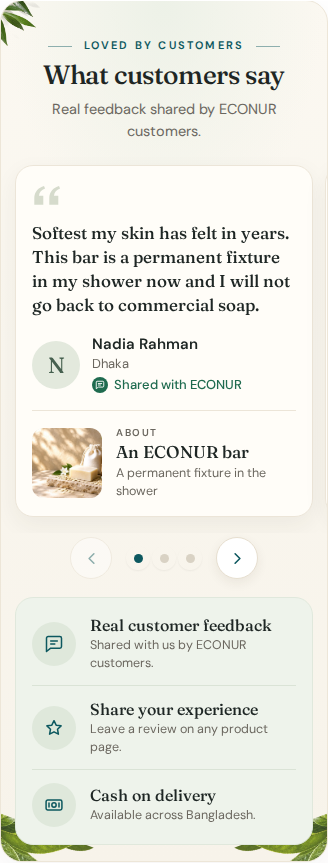
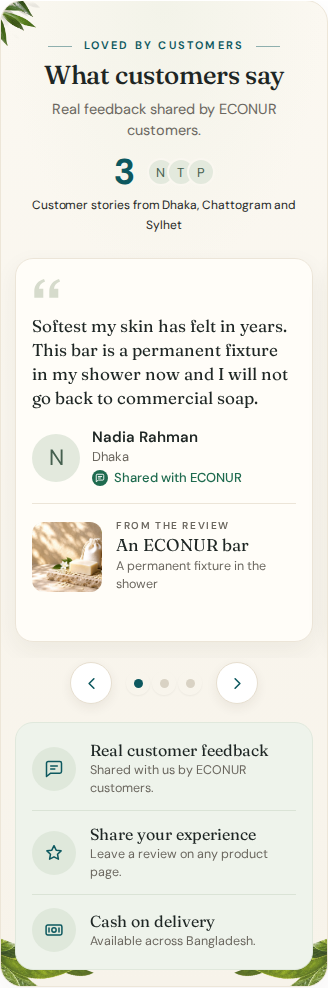
ECONUR Reviews plugin 1.2.0: match the approved reference layout
1140px block like the sections above, reference-scaled type and spacing, one card structure for every card
(same lower block, reserved date row), truthful summary block in fallback mode, regular-weight serif
self-hosted for this section only, one card per view on phones, arrows that wrap, aligned rows across cards.

Claude-Session: https://claude.ai/code/session_019SexMS1QwDBvZu3PuFEdLs

diff --git a/site-assets/econur/reviews-plugin/econur-reviews/assets/econur-reviews.css b/site-assets/econur/reviews-plugin/econur-reviews/assets/econur-reviews.css
@@ -1,7 +1,7 @@
 /* ECONUR Reviews plugin: "What customers say" section ([econur_reviews]). Scoped to .enr-rv. */
 .enr-rv{ --rv-teal:#0D585F; --rv-green:#1F6B4F; --rv-ink:#1E2624; --rv-muted:#6B675F; --rv-line:#ECE5D8; --rv-card:#FFFDF8; --rv-gold:#C9A24A; --rv-sage:#E3E9DD;
   position:relative; isolation:isolate; overflow:hidden; margin:0 16px; padding:40px 18px 20px; border:1px solid #EDE6D8; border-radius:22px;
-  background:radial-gradient(70% 40% at 50% 0%, rgba(232,239,228,.75), rgba(232,239,228,0) 70%), linear-gradient(180deg, #FBF8F1 0%, #F7F3EA 100%); box-shadow:0 12px 34px rgba(52,44,30,.05); }
+  background:radial-gradient(70% 40% at 50% 0%, rgba(236,239,226,.55), rgba(236,239,226,0) 70%), linear-gradient(180deg, #FBF8F1 0%, #F7F3EA 100%); box-shadow:0 12px 34px rgba(52,44,30,.05); }
 .enr-rv > *{ position:relative; z-index:1; }
 /* botanical corners: decorative, behind the content */
 .enr-rv > .enr-rv-deco{ position:absolute; z-index:0; display:block; height:auto !important; max-width:none !important; margin:0 !important; border-radius:0 !important; box-shadow:none !important; pointer-events:none; user-select:none; }
@@ -143,7 +143,7 @@
   .enr-rv-buy{ gap:16px; margin-top:18px; padding-top:18px; }
   .enr-rv-buy-img{ width:100px; height:100px; }
   .enr-rv .enr-rv-buy-name{ font-size:19px; }
-  .enr-rv-buy-line{ font-size:13.5px; }
+  .enr-rv-buy-line{ font-size:14px; }
   .enr-rv-nav{ margin-top:8px; gap:18px; }
   .enr-rv .enr-rv-arrow{ width:46px; height:46px; }
   .enr-rv .enr-rv-trust{ margin-top:26px !important; padding:20px 8px !important; border-radius:20px; }
@@ -151,7 +151,7 @@
   .enr-rv-trust-ico{ width:56px; height:56px; }
   .enr-rv-trust-ico svg{ width:24px; height:24px; }
   .enr-rv-trust-copy b{ font-size:18px; }
-  .enr-rv-trust-copy span{ font-size:13.5px; }
+  .enr-rv-trust-copy span{ font-size:13px; }
 }
 /* tablets and small laptops: smaller corner botanicals so they stay clear of the subtitle */
 @media (min-width:700px) and (max-width:1199px){
@@ -167,50 +167,8 @@
   .enr-rv-nav{ margin-top:16px; }
   .enr-rv .enr-rv-trust{ margin-top:32px !important; }
 }
-@media (min-width:1200px){
-  .enr-rv{ --rv-w:min(1320px, calc(100vw - 64px)); width:var(--rv-w); max-width:none; margin-left:calc(50% - var(--rv-w) / 2); margin-right:0; padding:52px 34px 36px; }
-  .enr-rv .enr-rv-title{ font-size:56px !important; }
-  .enr-rv-eyebrow{ font-size:13.5px; letter-spacing:.22em; }
-  .enr-rv-sub{ font-size:18px; }
-  .enr-rv-track{ gap:18px; margin:-8px -8px 0 !important; padding:8px 8px 20px !important; }
-  .enr-rv-slide{ flex-basis:calc((100% - 36px) / 3); }
-}
-@media (min-width:1360px){
-  .enr-rv .enr-rv-title{ font-size:60px !important; }
-  .enr-rv-deco--tl{ top:-44px; left:-56px; width:370px; }
-  .enr-rv-deco--tr{ top:-46px; right:-44px; width:370px; }
-  .enr-rv-deco--bl, .enr-rv-deco--br{ width:200px; bottom:-36px; }
-}
-/* wide screens: scale type and inner elements with the wider block so proportions match the reference */
-@media (min-width:1360px){
-  .enr-rv .enr-rv-title{ font-size:66px !important; }
-  .enr-rv-eyebrow{ font-size:14.5px; margin-bottom:12px; }
-  .enr-rv-sub{ margin-top:16px; font-size:19.5px; }
-  .enr-rv-summary{ margin-top:26px; }
-  .enr-rv-carousel{ margin-top:34px; }
-  .enr-rv-card{ padding:30px 30px 26px; }
-  .enr-rv-quote{ width:44px; height:33px; }
-  .enr-rv-stars svg{ width:22px; height:22px; }
-  .enr-rv .enr-rv-text p{ font-size:22px; line-height:1.4; }
-  .enr-rv-avatar{ width:62px; height:62px; font-size:28px; }
-  .enr-rv-name{ font-size:17px; }
-  .enr-rv-city, .enr-rv-verified{ font-size:14.5px; }
-  .enr-rv-buy{ min-height:130px; gap:18px; }
-  .enr-rv-buy-img{ width:110px; height:110px; }
-  .enr-rv-buy-eyebrow{ font-size:11px; }
-  .enr-rv .enr-rv-buy-name{ font-size:21px; }
-  .enr-rv-buy-line{ font-size:14.5px; }
-  .enr-rv .enr-rv-arrow{ width:50px; height:50px; }
-  .enr-rv-arrow svg{ width:21px; height:21px; }
-  .enr-rv .enr-rv-dot::before{ width:10px; height:10px; }
-  .enr-rv .enr-rv-trust{ padding:24px 10px !important; }
-  .enr-rv-trust-ico{ width:62px; height:62px; }
-  .enr-rv-trust-ico svg{ width:26px; height:26px; }
-  .enr-rv-trust-copy b{ font-size:20px; }
-  .enr-rv-trust-copy span{ font-size:14.5px; }
-}
 /* plugin additions */
-.enr-rv .enr-rv-text p{ display:-webkit-box; -webkit-box-orient:vertical; -webkit-line-clamp:5; line-clamp:5; overflow:hidden; }
+.enr-rv .enr-rv-text p{ display:-webkit-box; -webkit-box-orient:vertical; -webkit-line-clamp:7; line-clamp:7; overflow:hidden; }
 .enr-rv-sr{ position:absolute !important; width:1px; height:1px; margin:-1px; padding:0; overflow:hidden; clip:rect(0 0 0 0); white-space:nowrap; border:0; }
 /* fewer than three cards: centred, no controls once they all fit */
 @media (min-width:1000px){ .enr-rv--n1 .enr-rv-track, .enr-rv--n2 .enr-rv-track{ justify-content:center; } }
@@ -220,4 +178,90 @@
 .enr-rv .enr-rv-summary .enr-rv-stars--lg svg{ width:22px; height:22px; }
 @media (min-width:700px){ .enr-rv .enr-rv-summary .enr-rv-stars--lg svg{ width:26px; height:26px; } }
 @media (min-width:1000px){ .enr-rv .enr-rv-summary .enr-rv-stars--lg svg{ width:30px; height:30px; } }
-@media (min-width:1360px){ .enr-rv .enr-rv-summary .enr-rv-stars--lg svg{ width:34px; height:34px; } .enr-rv-avg{ font-size:56px; } .enr-rv-count{ font-size:17px; } }
+/* every card keeps the same rows: the date row holds its space even when there is no date */
+.enr-rv-date{ min-height:18px; }
+.enr-rv-top{ min-height:23px; }
+/* summary for customer stories: number, the customers' initials, where they are */
+.enr-rv-faces{ display:inline-flex; align-items:center; }
+.enr-rv-faces span{ display:grid; place-items:center; width:32px; height:32px; margin-left:-8px; border:2px solid #FAF7F0; border-radius:50%; background:var(--rv-sage); color:#46604F; font-family:var(--ecn-font-head, "Fraunces", Georgia, serif); font-size:15px; line-height:1; }
+.enr-rv-faces span:first-child{ margin-left:0; }
+.enr-rv-summary--stories .enr-rv-count{ color:var(--rv-ink); }
+@media (min-width:700px){ .enr-rv-faces span{ width:36px; height:36px; font-size:17px; } }
+/* desktop: matched to the approved reference. The block is 1140px wide, the same as the homepage sections above it,
+   and sizes stop growing past this point */
+@media (min-width:1200px){
+  .enr-rv{ --rv-w:min(1140px, calc(100vw - 64px)); width:var(--rv-w); max-width:none; margin-left:calc(50% - var(--rv-w) / 2); margin-right:0; padding:70px 30px 44px; border-radius:26px; }
+  .enr-rv-deco--tl{ top:-44px; left:-54px; width:340px; }
+  .enr-rv-deco--tr{ top:-26px; right:-34px; width:330px; }
+  .enr-rv-deco--bl, .enr-rv-deco--br{ bottom:-30px; width:170px; }
+  .enr-rv-eyebrow{ margin-bottom:9px; font-size:13px; letter-spacing:.22em; }
+  .enr-rv-eyebrow::before, .enr-rv-eyebrow::after{ width:40px; }
+  .enr-rv .enr-rv-title{ font-size:57px !important; line-height:1.06 !important; }
+  .enr-rv-sub{ margin-top:12px; font-size:18px; }
+  .enr-rv-summary{ margin-top:14px; }
+  .enr-rv-avg{ font-size:54px; line-height:1; }
+  .enr-rv-count{ margin-top:4px; font-size:16.5px; }
+  .enr-rv-faces span{ width:40px; height:40px; font-size:19px; }
+  .enr-rv .enr-rv-summary .enr-rv-stars--lg svg{ width:30px; height:30px; }
+  .enr-rv-carousel{ margin-top:18px; }
+  .enr-rv-track{ gap:18px; margin:-8px -8px 0 !important; padding:8px 8px 12px !important; }
+  .enr-rv-slide{ flex-basis:calc((100% - 36px) / 3); }
+  .enr-rv-card{ padding:24px 26px 20px; border-radius:18px; }
+  .enr-rv-quote{ width:32px; height:25px; }
+  .enr-rv-top{ min-height:25px; }
+  .enr-rv-stars svg{ width:18px; height:18px; }
+  .enr-rv .enr-rv-text{ margin:18px 0 22px !important; }
+  .enr-rv .enr-rv-text p{ font-size:19px; line-height:1.45; }
+  .enr-rv-who{ gap:14px; }
+  .enr-rv-avatar{ width:60px; height:60px; font-size:27px; }
+  .enr-rv-name{ font-size:16px; }
+  .enr-rv-city{ font-size:14px; }
+  .enr-rv-verified{ font-size:14.5px; }
+  .enr-rv-buy{ min-height:0; gap:18px; margin-top:18px; padding-top:18px; }
+  .enr-rv-buy-img{ width:100px; height:100px; }
+  .enr-rv-buy-eyebrow{ font-size:11px; letter-spacing:.14em; }
+  .enr-rv .enr-rv-buy-name{ font-size:19px; }
+  .enr-rv-buy-line{ font-size:14px; }
+  .enr-rv-date{ margin-top:14px; min-height:19px; font-size:13.5px; }
+  .enr-rv-nav{ margin-top:10px; gap:18px; }
+  .enr-rv .enr-rv-arrow{ width:46px; height:46px; }
+  .enr-rv .enr-rv-trust{ margin-top:16px !important; padding:22px 8px !important; border-radius:22px; }
+  .enr-rv-trust-item{ gap:14px; padding:2px 16px; }
+  .enr-rv-trust-ico{ width:62px; height:62px; }
+  .enr-rv-trust-ico svg{ width:26px; height:26px; }
+  .enr-rv-trust-copy b{ font-size:18px; }
+  .enr-rv-trust-copy span{ font-size:13px; }
+}
+/* review text, product titles and trust titles in the regular-weight serif of the reference. Self-hosted under its own
+   name so no other section's text changes (the site loads Fraunces only in 500-600). */
+@font-face{ font-family:"ENR Fraunces Text"; font-style:normal; font-weight:400; font-display:swap; src:url("fraunces-400-latin.woff2") format("woff2"); unicode-range:U+0000-00FF, U+0131, U+0152-0153, U+02BB-02BC, U+02C6, U+02DA, U+02DC, U+0304, U+0308, U+0329, U+2000-206F, U+20AC, U+2122, U+2191, U+2193, U+2212, U+2215, U+FEFF, U+FFFD; }
+.enr-rv .enr-rv-text p, .enr-rv .enr-rv-buy-name, .enr-rv-trust-copy b{ font-family:"ENR Fraunces Text", var(--ecn-font-head, "Fraunces", Georgia, serif); font-weight:400; }
+.enr-rv-avatar, .enr-rv-faces span{ font-family:inherit; font-weight:400; }
+/* phones: matched to the reference's mobile layout. Exactly one card in view (the gap equals the side padding so the next
+   card starts just outside the block), a single-line summary and a slightly smaller heading */
+@media (max-width:699px){
+  .enr-rv .enr-rv-title{ font-size:29px !important; }
+  .enr-rv-track{ gap:18px; }
+  .enr-rv-count{ font-size:13px; letter-spacing:-.005em; }
+  .enr-rv-summary{ margin-top:12px; }
+  .enr-rv-avg{ font-size:36px; line-height:1; }
+  .enr-rv-faces span{ width:28px; height:28px; font-size:13px; }
+  .enr-rv-buy-img{ width:88px; height:88px; }
+}
+@media (max-width:374px){
+  .enr-rv .enr-rv-title{ font-size:26px !important; }
+  .enr-rv-track{ gap:14px; }
+  .enr-rv-count{ font-size:12px; }
+  .enr-rv .enr-rv-text p{ -webkit-line-clamp:9; line-clamp:9; }
+  .enr-rv-buy-img{ width:74px; height:74px; }
+}
+.enr-rv-who, .enr-rv-buy{ box-sizing:border-box; }
+/* small laptops (1000-1199px): three narrower cards, so slightly smaller type and thumbnails */
+@media (min-width:1000px) and (max-width:1199px){
+  .enr-rv-card{ padding:22px 20px 18px; }
+  .enr-rv .enr-rv-text p{ font-size:18px; }
+  .enr-rv-buy{ gap:14px; }
+  .enr-rv-buy-img{ width:84px; height:84px; }
+  .enr-rv .enr-rv-buy-name{ font-size:17.5px; }
+  .enr-rv-buy-line{ font-size:13px; }
+}

diff --git a/site-assets/econur/reviews-plugin/econur-reviews/assets/econur-reviews.js b/site-assets/econur/reviews-plugin/econur-reviews/assets/econur-reviews.js
@@ -16,7 +16,8 @@
       busy = true; track.classList.add('is-swap');
       setTimeout(function () { order(k); track.classList.remove('is-swap'); busy = false; sync(); }, 220);
     }
-    function go(i) { if (rotating()) return rotate(i); track.scrollTo({ left: Math.max(0, Math.min(pages() - 1, i)) * step(), behavior: reduce.matches ? 'auto' : 'smooth' }); }
+    // the arrows wrap around in both layouts, so neither is ever disabled
+    function go(i) { if (rotating()) return rotate(i); var p = pages(); i = ((i % p) + p) % p; track.scrollTo({ left: i * step(), behavior: reduce.matches ? 'auto' : 'smooth' }); }
     function at() { return rotating() ? lead : current(); }
     function sync() {
       var rot = rotating();
@@ -24,7 +25,7 @@
       var p = rot ? orig.length : pages(), i = at();
       nav.hidden = p < 2;
       dots.forEach(function (d, k) { d.hidden = k >= p; var on = (k === i); d.classList.toggle('is-on', on); if (on) d.setAttribute('aria-current', 'true'); else d.removeAttribute('aria-current'); });
-      prev.disabled = !rot && i <= 0; next.disabled = !rot && i >= p - 1;
+      prev.disabled = false; next.disabled = false;
     }
     prev.addEventListener('click', function () { go(at() - 1); });
     next.addEventListener('click', function () { go(at() + 1); });
@@ -33,12 +34,24 @@
       if (e.target.closest && e.target.closest('a')) return;
       if (e.key === 'ArrowRight') { e.preventDefault(); go(at() + 1); } else if (e.key === 'ArrowLeft') { e.preventDefault(); go(at() - 1); }
     });
+    // reviewer rows and lower blocks share one height across cards, so dividers, thumbnails and bottoms line up
+    function equalize() {
+      ['.enr-rv-who', '.enr-rv-buy'].forEach(function (sel) {
+        var els = [].slice.call(track.querySelectorAll(sel)), m = 0;
+        els.forEach(function (e) { e.style.minHeight = ''; });
+        els.forEach(function (e) { m = Math.max(m, e.getBoundingClientRect().height); });
+        els.forEach(function (e) { e.style.minHeight = Math.ceil(m) + 'px'; });
+      });
+    }
+    var lastW = 0;
+    function resized() { var w = track.clientWidth; if (w !== lastW) { lastW = w; equalize(); } sync(); }
     track.addEventListener('scroll', function () { cancelAnimationFrame(raf); raf = requestAnimationFrame(sync); }, { passive: true });
-    if (window.ResizeObserver) new ResizeObserver(sync).observe(track); else window.addEventListener('resize', sync);
+    if (window.ResizeObserver) new ResizeObserver(resized).observe(track); else window.addEventListener('resize', resized);
+    if (document.fonts && document.fonts.ready) document.fonts.ready.then(function () { equalize(); sync(); });
     // every page view starts from the first review and the first card, also when the browser restores the page
     // from its back/forward cache or restores the scroll position
     function reset() { lead = 0; order(0); track.scrollLeft = 0; sync(); }
-    window.addEventListener('pageshow', reset); window.addEventListener('load', sync); reset();
+    window.addEventListener('pageshow', reset); window.addEventListener('load', function () { equalize(); sync(); }); equalize(); reset();
   }
   function start() { [].forEach.call(document.querySelectorAll('.enr-rv-carousel'), init); }
   if (document.readyState === 'loading') document.addEventListener('DOMContentLoaded', start); else start();

diff --git a/site-assets/econur/reviews-plugin/econur-reviews/econur-reviews.php b/site-assets/econur/reviews-plugin/econur-reviews/econur-reviews.php
@@ -2,14 +2,14 @@
 /**
  * Plugin Name:       ECONUR Reviews
  * Description:       "What customers say" section for the homepage, shortcode [econur_reviews]. Shows approved WooCommerce product reviews once there are enough of them, and the customer testimonials the store owner has confirmed until then.
- * Version:           1.1.1
+ * Version:           1.2.0
  * Requires Plugins:  woocommerce
  * Author:            ECONUR
  * Text Domain:       econur-reviews
  */
 defined('ABSPATH') || exit;
 
-define('ECONUR_REVIEWS_VERSION', '1.1.1');
+define('ECONUR_REVIEWS_VERSION', '1.2.0');
 
 require_once __DIR__ . '/includes/review-requests.php';
 
@@ -33,7 +33,7 @@ function enr_reviews_settings() {
             array('name' => 'Nadia Rahman', 'city' => 'Dhaka',
                   'about' => array('image' => 140, 'focus' => '32% 74%', 'title' => 'An ECONUR bar', 'line' => 'A permanent fixture in the shower'),
                   'text' => 'Softest my skin has felt in years. This bar is a permanent fixture in my shower now and I will not go back to commercial soap.'),
-            array('name' => 'Tanvir Hossain', 'city' => 'Chattogram', 'product' => 14, 'product_label' => 'Product mentioned',
+            array('name' => 'Tanvir Hossain', 'city' => 'Chattogram', 'product' => 14,
                   'text' => 'The Active Defense Bar cleared my blackheads in two weeks. Genuinely impressed.'),
             array('name' => 'Priya Chowdhury', 'city' => 'Sylhet',
                   'about' => array('image' => 103, 'focus' => '58% 42%', 'title' => 'A full ECONUR set', 'line' => 'Ordered as a gift'),
@@ -252,7 +252,8 @@ function enr_reviews_card($r, $n, $total, $live, $cfg) {
         $img_id = (int) get_post_meta($p->get_id(), 'econur_home_card_image', true);
         if (!$img_id || !wp_attachment_is_image($img_id)) $img_id = (int) $p->get_image_id();
         $img = enr_reviews_thumb($img_id, $p->get_name(), $cfg['thumb_focus'][$p->get_id()] ?? '', '112px');
-        $label = $live ? ($verified ? 'Purchased' : 'Reviewed') : ($r['product_label'] ?? 'Product mentioned');
+        // Same lower block on every card. Testimonials: what the customer's own words refer to (no purchase claim).
+        $label = $live ? ($verified ? 'Purchased' : 'Reviewed') : 'From the review';
         $line = enr_reviews_product_line($p);
         $lower = '<div class="enr-rv-buy">'
             . ($img ? '<a class="enr-rv-buy-img" href="' . esc_url($link) . '" tabindex="-1" aria-hidden="true">' . $img . '</a>' : '')
@@ -264,11 +265,12 @@ function enr_reviews_card($r, $n, $total, $live, $cfg) {
         $a = $r['about'];
         $img = enr_reviews_thumb((int) ($a['image'] ?? 0), $a['title'], $a['focus'] ?? '', '240px');
         $lower = '<div class="enr-rv-buy">' . ($img ? '<span class="enr-rv-buy-img">' . $img . '</span>' : '')
-            . '<div class="enr-rv-buy-copy"><span class="enr-rv-buy-eyebrow">About</span><span class="enr-rv-buy-name">' . esc_html($a['title']) . '</span>'
+            . '<div class="enr-rv-buy-copy"><span class="enr-rv-buy-eyebrow">From the review</span><span class="enr-rv-buy-name">' . esc_html($a['title']) . '</span>'
             . (!empty($a['line']) ? '<span class="enr-rv-buy-line">' . esc_html($a['line']) . '</span>' : '') . '</div></div>';
     }
 
-    $date = '';
+    // The date row keeps its space on every card; it stays empty when no confirmed date exists.
+    $date = '<span class="enr-rv-date is-empty" aria-hidden="true"></span>';
     if ($live && !empty($r['date']) && ($ts = strtotime($r['date']))) {
         $date = '<time class="enr-rv-date" datetime="' . esc_attr(gmdate('Y-m-d', $ts)) . '">' . esc_html(date_i18n(get_option('date_format'), $ts)) . '</time>';
     }
@@ -304,7 +306,18 @@ function enr_reviews_render($data, $cfg) {
     foreach ($items as $r) $cards .= enr_reviews_card($r, ++$n, $total, $live, $cfg);
 
     $summary = '';
-    if ($live && $data['stats']['count']) {
+    if (!$live) {
+        // Testimonials have no rating figures. Same block, truthful content: how many customer stories are shown,
+        // their initials and where the customers are.
+        $cities = array_values(array_unique(array_filter(array_map(function ($r) { return trim((string) ($r['city'] ?? '')); }, $items))));
+        $where = count($cities) > 1 ? implode(', ', array_slice($cities, 0, -1)) . ' and ' . end($cities) : ($cities[0] ?? '');
+        $faces = '';
+        foreach (array_slice($items, 0, 5) as $r) { $nm = trim($r['name']); $faces .= '<span>' . esc_html(function_exists('mb_substr') ? mb_strtoupper(mb_substr($nm, 0, 1)) : strtoupper(substr($nm, 0, 1))) . '</span>'; }
+        $line = sprintf(_n('%s customer story', '%s customer stories', $total, 'econur-reviews'), '') . ($where ? ' from ' . $where : '');
+        $summary = '<div class="enr-rv-summary enr-rv-summary--stories"><div class="enr-rv-summary-row"><span class="enr-rv-avg" aria-hidden="true">' . (int) $total . '</span>'
+            . '<span class="enr-rv-faces" aria-hidden="true">' . $faces . '</span></div>'
+            . '<p class="enr-rv-count"><span class="enr-rv-sr">' . (int) $total . ' </span>' . esc_html(ucfirst(trim($line))) . '</p></div>';
+    } elseif ($data['stats']['count']) {
         $s = $data['stats'];
         $what = $s['verified'] === $s['count'] ? _n('verified review', 'verified reviews', $s['count'], 'econur-reviews') : _n('review', 'reviews', $s['count'], 'econur-reviews');
         $summary = '<div class="enr-rv-summary"><div class="enr-rv-summary-row"><span class="enr-rv-avg" aria-hidden="true">' . esc_html(number_format_i18n($s['average'], 1)) . '</span>'
@@ -317,7 +330,7 @@ function enr_reviews_render($data, $cfg) {
     $uid = 'enr-rv-' . wp_unique_id();
     $main = '<div class="enr-rv-carousel" role="region" aria-roledescription="carousel" aria-label="Customer reviews">'
         . '<ul class="enr-rv-track" id="' . $uid . '-track" tabindex="0" aria-label="Reviews, use the arrow keys to move">' . $cards . '</ul>'
-        . '<div class="enr-rv-nav"' . ($total < 2 ? ' hidden' : '') . '><button type="button" class="enr-rv-arrow enr-rv-prev" aria-controls="' . $uid . '-track" aria-label="Previous review" disabled>' . enr_reviews_icon('prev') . '</button>'
+        . '<div class="enr-rv-nav"' . ($total < 2 ? ' hidden' : '') . '><button type="button" class="enr-rv-arrow enr-rv-prev" aria-controls="' . $uid . '-track" aria-label="Previous review">' . enr_reviews_icon('prev') . '</button>'
         . '<div class="enr-rv-dots">' . $dots . '</div>'
         . '<button type="button" class="enr-rv-arrow enr-rv-next" aria-controls="' . $uid . '-track" aria-label="Next review">' . enr_reviews_icon('next') . '</button></div>'
         . '</div>';
